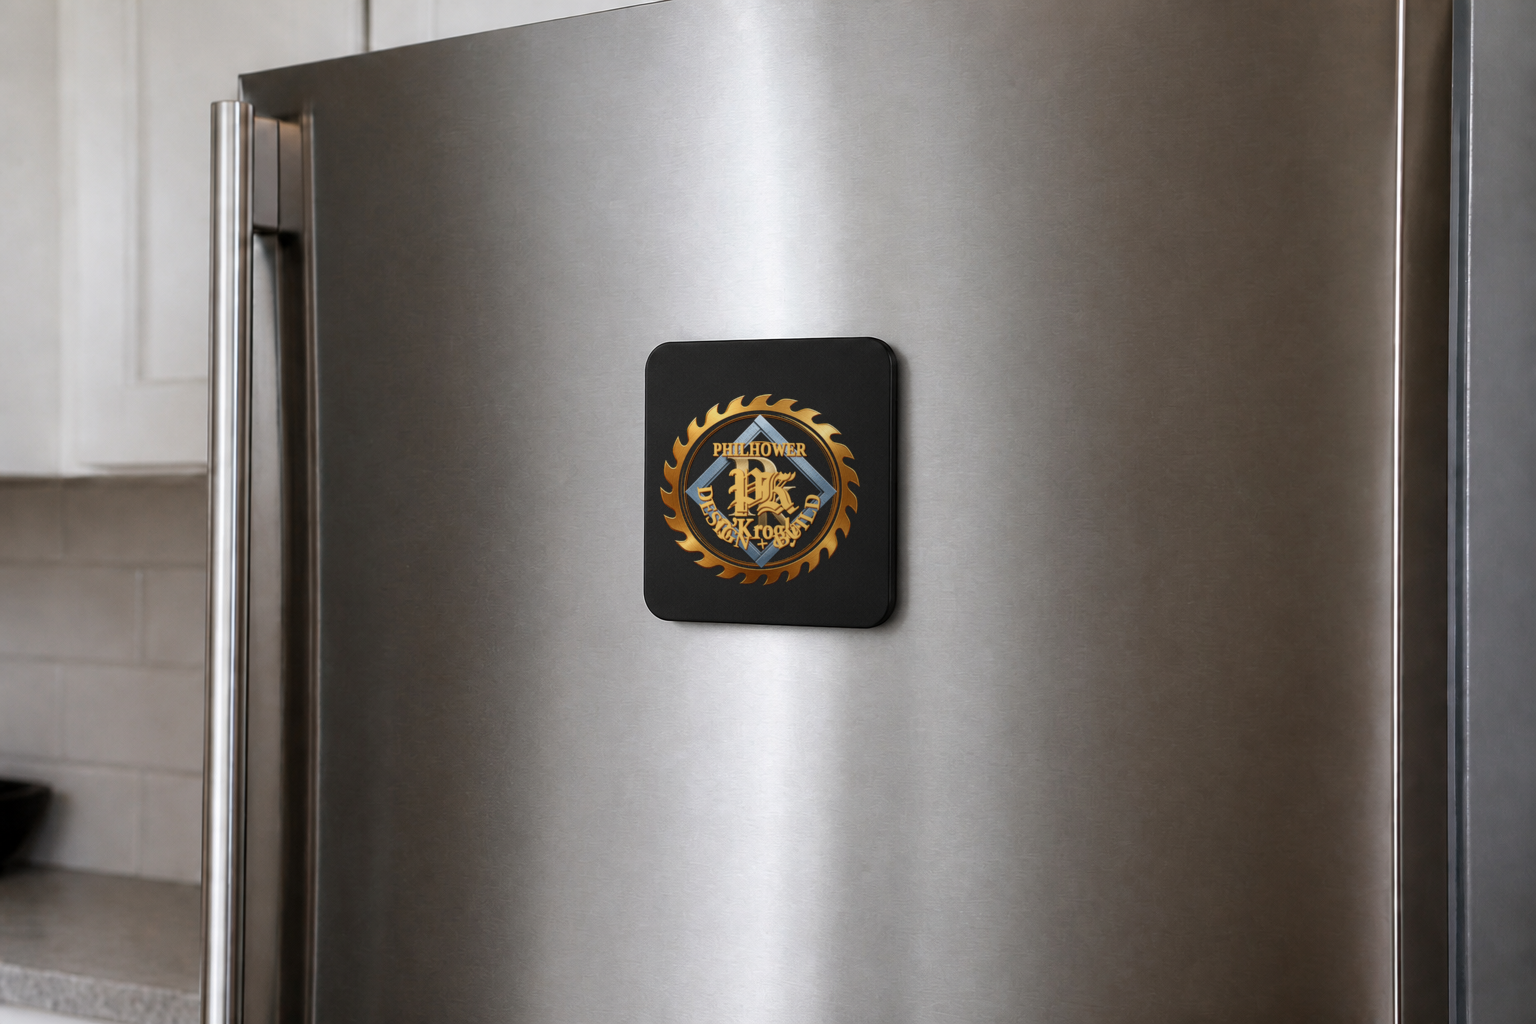
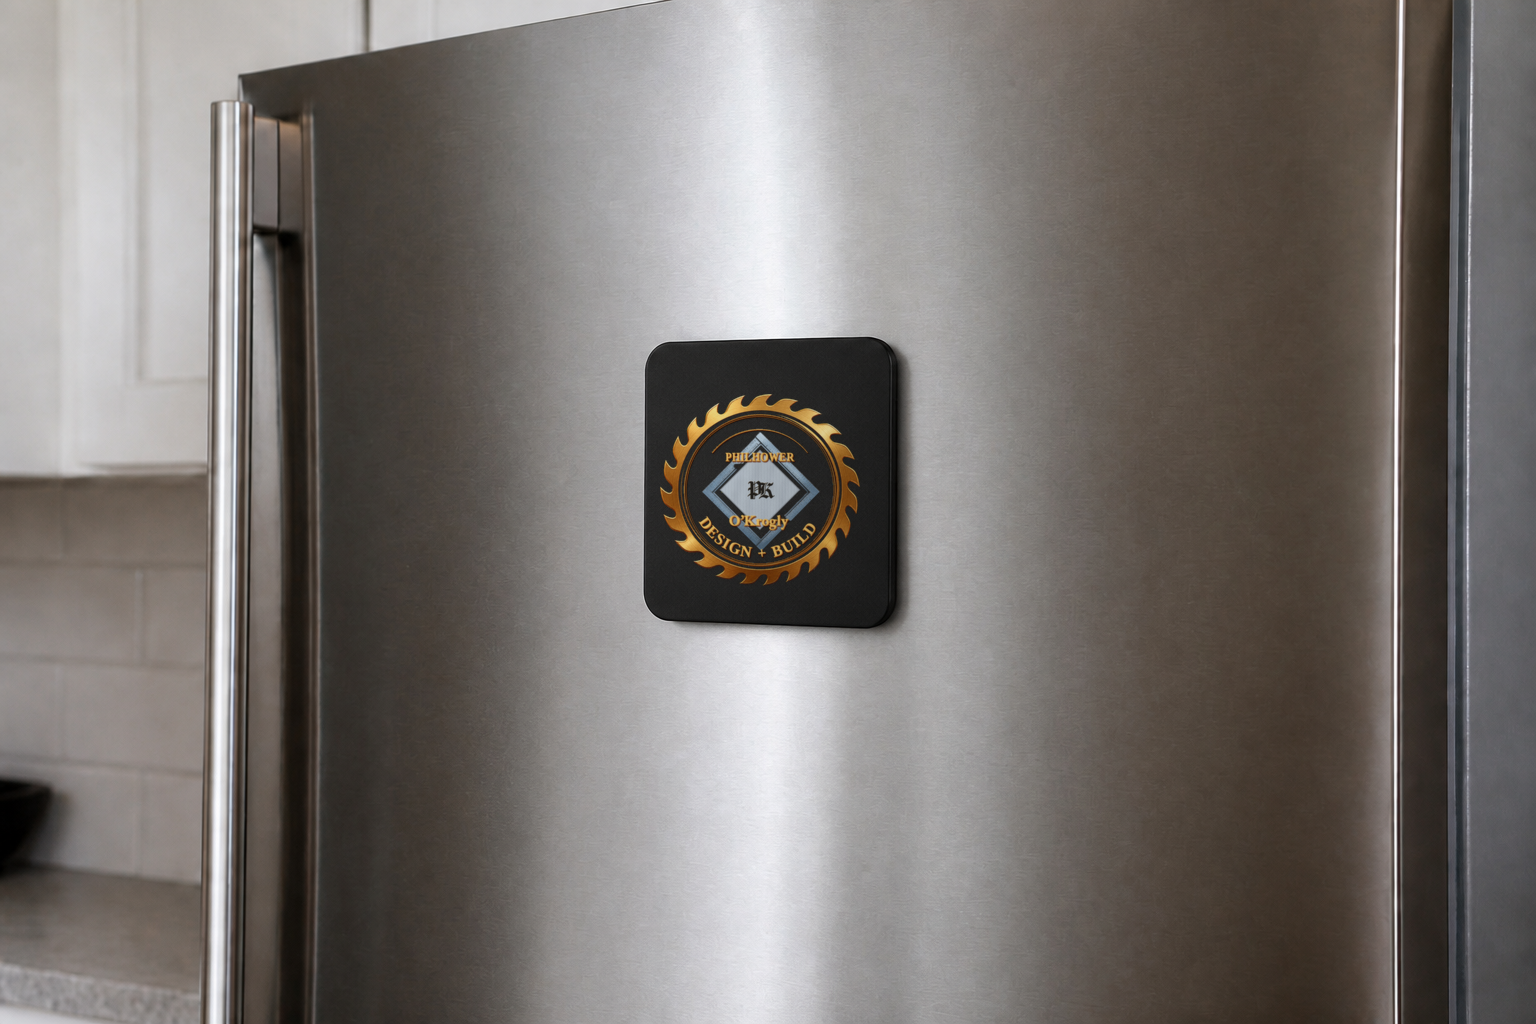
Etch the POK monogram into the square and give the lockup air.
PK is a recessed cut in the carpenter-square plate, not raised gold.
Names sit in their own lanes so every word reads inside the blade.

Changed region(s): [[0.4375, 0.4062, 0.5625, 0.5625]]

diff --git a/dphilhower-studio-wp/preview/work/philhower-okrogly/index.html b/dphilhower-studio-wp/preview/work/philhower-okrogly/index.html
@@ -4,7 +4,7 @@
   <meta charset="utf-8">
   <meta name="viewport" content="width=device-width, initial-scale=1">
   <title>Philhower &amp; O’Krogly — D Philhower Studio</title>
-  <meta name="description" content="Philhower &amp; O’Krogly Design + Build: Hills blade, Times PHILHOWER, Garamond O’Krogly, pale carpenter-square PK diamond.">
+      <meta name="description" content="Philhower &amp; O’Krogly Design + Build: Hills blade, Times PHILHOWER, Garamond O’Krogly, PK etched into the carpenter-square diamond.">
   <link rel="icon" href="../../img/favicon.svg" type="image/svg+xml">
   <link rel="preconnect" href="https://fonts.googleapis.com">
   <link rel="preconnect" href="https://fonts.gstatic.com" crossorigin>
@@ -31,7 +31,7 @@
       <p>Design + Build</p>
     </header>
     <div class="case-hero">
-      <img src="../../img/pok-hero.png" alt="Philhower &amp; O’Krogly lockup: Hills blade, Times PHILHOWER, carpenter-square PK diamond, Garamond O’Krogly, DESIGN + BUILD" width="1536" height="1024">
+      <img src="../../img/pok-hero.png" alt="Philhower &amp; O’Krogly lockup: Hills blade, Times PHILHOWER, PK etched into the carpenter-square, Garamond O’Krogly, DESIGN + BUILD" width="1536" height="1024">
     </div>
     <article class="case-body">
       <ul class="case-meta">
@@ -41,7 +41,7 @@
         <li><strong>Place</strong><br>Northern New Jersey</li>
       </ul>
       <div class="entry-content">
-        <p>Same Hills blade. Carpenter-square field, PK in modern Old English. PHILHOWER in Times, O’Krogly in Garamond. DESIGN + BUILD at three-quarters the name size, on the bottom arc.</p>
+        <p>Same Hills blade. Carpenter-square field, PK etched into the steel in modern Old English. PHILHOWER in Times, O’Krogly in Garamond — each name in its own lane. DESIGN + BUILD on the bottom arc. Room so every word reads.</p>
         <p>One lockup. Polo, van, yard, card, fridge. Black field so gold reads. Blue is only the diamond.</p>
       </div>
     </article>
@@ -56,7 +56,7 @@
         </figure>
         <figure>
           <img src="../../img/pok-print-shirt.png" alt="Black polo with the Philhower &amp; O’Krogly saw-blade lockup centered on the chest" width="1536" height="1024">
-          <figcaption><strong>Polo</strong> Center chest. Modern Old English PK in the blade field; Times and Garamond over it.</figcaption>
+          <figcaption><strong>Polo</strong> Center chest. Modern Old English PK etched into the square; Times and Garamond over it.</figcaption>
         </figure>
         <figure>
           <img src="../../img/pok-print-van.png" alt="Matte black van with the Philhower &amp; O’Krogly saw-blade lockup on the side" width="1536" height="1024">

diff --git a/dphilhower-studio-wp/theme/dphilhower-studio/style.css b/dphilhower-studio-wp/theme/dphilhower-studio/style.css
@@ -4,7 +4,7 @@ Theme URI: https://dphilhower.com
 Author: D Philhower Studio
 Author URI: https://dphilhower.com
 Description: Custom graphic design studio theme for D Philhower Studio at dphilhower.com — portfolio, services, about, and project inquiries. Activate the theme to load demo pages and work samples.
-Version: 1.0.31
+Version: 1.0.32
 Requires at least: 6.4
 Tested up to: 6.8
 Requires PHP: 7.4

diff --git a/dphilhower-studio-wp/theme/dphilhower-studio/inc/brand-kits.php b/dphilhower-studio-wp/theme/dphilhower-studio/inc/brand-kits.php
@@ -289,7 +289,7 @@ function dps_brand_kits() {
 		'philhower-okrogly'        => array(
 			'label'  => __( 'Print system', 'dphilhower-studio' ),
 			'title'  => __( 'One lockup, five scales', 'dphilhower-studio' ),
-			'intro'  => __( 'Hills blade. Carpenter-square field, modern Old English PK. Times PHILHOWER, Garamond O’Krogly. DESIGN + BUILD at three-quarters the name size. Polo, van, yard, card, fridge — one lockup.', 'dphilhower-studio' ),
+			'intro'  => __( 'Hills blade. Carpenter-square field, modern Old English PK etched into the steel. Times PHILHOWER and Garamond O’Krogly in their own lanes. DESIGN + BUILD on the bottom arc. Room so every word reads. Polo, van, yard, card, fridge — one lockup.', 'dphilhower-studio' ),
 			'pieces' => array(
 				array(
 					'file'    => 'pok-seal-hero.png',
@@ -301,7 +301,7 @@ function dps_brand_kits() {
 					'file'    => 'pok-print-shirt.png',
 					'alt'     => __( 'Black polo with the Philhower & O’Krogly saw-blade lockup centered on the chest', 'dphilhower-studio' ),
 					'heading' => __( 'Polo', 'dphilhower-studio' ),
-					'story'   => __( 'Center chest. Modern Old English PK in the blade field; Times and Garamond over it.', 'dphilhower-studio' ),
+					'story'   => __( 'Center chest. Modern Old English PK etched into the square; Times and Garamond over it.', 'dphilhower-studio' ),
 				),
 				array(
 					'file'    => 'pok-print-van.png',

diff --git a/dphilhower-studio-wp/theme/dphilhower-studio/inc/setup-content.php b/dphilhower-studio-wp/theme/dphilhower-studio/inc/setup-content.php
@@ -326,7 +326,7 @@ function dps_seed_demo_content( $force = false ) {
 			'services' => 'Identity · embroidery · vehicle · signage',
 			'year'     => '2025',
 			'location' => 'Northern New Jersey',
-			'content'  => '<p>Same Hills blade. Carpenter-square field, PK in modern Old English. PHILHOWER in Times, O’Krogly in Garamond. DESIGN + BUILD at three-quarters the name size, on the bottom arc.</p><p>One lockup. Polo, van, yard, card, fridge. Black field so gold reads.</p>',
+			'content'  => '<p>Same Hills blade. Carpenter-square field, PK etched into the steel in modern Old English. PHILHOWER in Times, O’Krogly in Garamond — each name in its own lane. DESIGN + BUILD on the bottom arc. Room so every word reads.</p><p>One lockup. Polo, van, yard, card, fridge. Black field so gold reads.</p>',
 		),
 		array(
 			'slug'     => 'cafe-robust',
@@ -461,7 +461,7 @@ function dps_seed_demo_content( $force = false ) {
 	flush_rewrite_rules();
 
 	update_option( 'dps_demo_seeded', DPS_VERSION );
-	update_option( 'dps_images_version', 'brands-print-24' );
+	update_option( 'dps_images_version', 'brands-print-25' );
 	return true;
 }
 

diff --git a/dphilhower-studio-wp/theme/dphilhower-studio/functions.php b/dphilhower-studio-wp/theme/dphilhower-studio/functions.php
@@ -9,7 +9,7 @@ if ( ! defined( 'ABSPATH' ) ) {
 	exit;
 }
 
-define( 'DPS_VERSION', '1.0.31' );
+define( 'DPS_VERSION', '1.0.32' );
 define( 'DPS_DIR', get_template_directory() );
 define( 'DPS_URI', get_template_directory_uri() );
 
@@ -164,14 +164,14 @@ function dps_maybe_upgrade_images() {
 	if ( 'dphilhower-studio' !== get_stylesheet() ) {
 		return;
 	}
-	if ( get_option( 'dps_images_version' ) === 'brands-print-24' ) {
+	if ( get_option( 'dps_images_version' ) === 'brands-print-25' ) {
 		return;
 	}
 	if ( ! get_option( 'dps_demo_seeded' ) ) {
 		return;
 	}
 	dps_seed_demo_content( true );
-	update_option( 'dps_images_version', 'brands-print-24' );
+	update_option( 'dps_images_version', 'brands-print-25' );
 }
 
 /**
